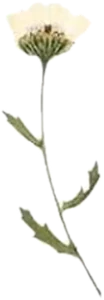
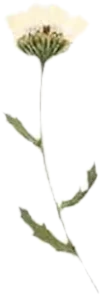
Fix Fiberglass autoplay fallback, pressed-flower transparency, Slip Stitch sticker
- PhoneMockup: set the muted property before playing, and show a tap-to-play
  button when autoplay is blocked (iPhone Low Power Mode, data saver) or the
  visitor prefers reduced motion, instead of a frozen first frame
- Botanicals: alpha now follows distance from the white backdrop, so gaps
  between leaflets are see-through and edges carry no white rim
- Slip Stitch sticker keeps the full cream S

Claude-Session: https://claude.ai/code/session_01Nkk7RTQs6f9adRdgWtfamd

diff --git a/src/components/OddsAndEnds.tsx b/src/components/OddsAndEnds.tsx
@@ -55,29 +55,29 @@ const pieces: Piece[] = [
 
   // Logo stickers, stuck on the kraft paper
   { src: "/odds/rapscallion.webp", w: 520, h: 195, alt: "Rapscallion Station ransom-note bar logo sticker", frame: "sticker", d: [55, 72.5, 15, -4, 20], m: [386, 12, 50, -4, 20] },
-  { src: "/odds/slipstitch.webp", w: 351, h: 364, alt: "Slip Stitch Heirlooms retro sunset logo sticker", frame: "sticker", d: [65, 87, 8.5, 8, 20], m: [384, 64, 26, 8, 20] },
+  { src: "/odds/slipstitch.webp", w: 506, h: 520, alt: "Slip Stitch Heirlooms retro sunset logo sticker", frame: "sticker", d: [65, 87, 8.5, 8, 20], m: [384, 64, 26, 8, 20] },
   { src: "/odds/logistics-logo.webp", w: 300, h: 221, alt: "Logistics company logo sticker", frame: "sticker", d: [70, 73.5, 8, 6, 20], m: [406, 14, 22, 6, 20] },
   { src: "/odds/sailor.webp", w: 151, h: 197, alt: "Bearded sailor icon logo sticker", frame: "sticker", d: [69, 83, 4.2, -6, 20], m: [404, 44, 12, -6, 20] },
 
   // Pressed botanicals, some tucked under the pieces and some laid on top
-  { src: "/odds/bot/sweetgum.webp", w: 300, h: 258, alt: "", frame: "botanical", d: [79, 7, 8, 20, 4], m: [190, 70, 24, 20, 4] },
-  { src: "/odds/bot/sweetgum-2.webp", w: 290, h: 247, alt: "", frame: "botanical", d: [30, 76, 7, -15, 3] },
-  { src: "/odds/bot/meadow-rue.webp", w: 209, h: 300, alt: "", frame: "botanical", d: [36, 68.5, 5, 12, 5], m: [300, 86, 13, 12, 25] },
-  { src: "/odds/bot/fern.webp", w: 165, h: 300, alt: "", frame: "botanical", d: [76, 50, 4.5, -8, 25], m: [52, 2, 12, -8, 25] },
-  { src: "/odds/bot/yarrow.webp", w: 190, h: 284, alt: "", frame: "botanical", d: [78, 30, 4.5, 10, 5] },
-  { src: "/odds/bot/skeleton-leaf.webp", w: 144, h: 220, alt: "", frame: "botanical", d: [16, 28.5, 4, -20, 5], m: [244, 42, 13, -20, 25] },
-  { src: "/odds/bot/rose-peach.webp", w: 239, h: 226, alt: "", frame: "botanical", d: [40, 0.5, 6.5, 0, 25], m: [116, 2, 18, 0, 25] },
-  { src: "/odds/bot/rose-gold.webp", w: 160, h: 170, alt: "", frame: "botanical", d: [84, 60, 5, 15, 25], m: [440, 8, 14, 15, 25] },
-  { src: "/odds/bot/dandelion.webp", w: 183, h: 187, alt: "", frame: "botanical", d: [44, 92, 5, 0, 25], m: [186, 4, 14, 0, 25] },
-  { src: "/odds/bot/dandelion-2.webp", w: 184, h: 185, alt: "", frame: "botanical", d: [28, 49, 4, 0, 25] },
-  { src: "/odds/bot/cosmos.webp", w: 185, h: 183, alt: "", frame: "botanical", d: [82, 24.5, 5, 10, 25], m: [372, 82, 13, 10, 25] },
-  { src: "/odds/bot/cosmos-2.webp", w: 205, h: 229, alt: "", frame: "botanical", d: [64, 52.5, 4.5, -10, 25] },
-  { src: "/odds/bot/marigold.webp", w: 167, h: 288, alt: "", frame: "botanical", d: [24, 47, 3, 8, 25], m: [22, 88, 9, 8, 25] },
-  { src: "/odds/bot/daisy-stem.webp", w: 104, h: 300, alt: "", frame: "botanical", d: [50, 96.5, 2.4, -6, 25] },
-  { src: "/odds/bot/pasque.webp", w: 167, h: 300, alt: "", frame: "botanical", d: [3, 0.3, 3.5, 8, 25] },
-  { src: "/odds/bot/rosebud.webp", w: 123, h: 207, alt: "", frame: "botanical", d: [86, 68, 3, 30, 25], m: [442, 90, 8, 30, 25] },
-  { src: "/odds/bot/tulip.webp", w: 107, h: 117, alt: "", frame: "botanical", d: [38, 21, 3, -12, 25] },
-  { src: "/odds/bot/pansy.webp", w: 84, h: 89, alt: "", frame: "botanical", d: [12, 29.5, 2.2, 0, 25], m: [124, 92, 6, 0, 25] },
+  { src: "/odds/bot/sweetgum.webp", w: 294, h: 240, alt: "", frame: "botanical", d: [79, 7, 8, 20, 4], m: [190, 70, 24, 20, 4] },
+  { src: "/odds/bot/sweetgum-2.webp", w: 289, h: 244, alt: "", frame: "botanical", d: [30, 76, 7, -15, 3] },
+  { src: "/odds/bot/meadow-rue.webp", w: 206, h: 295, alt: "", frame: "botanical", d: [36, 68.5, 5, 12, 5], m: [300, 86, 13, 12, 25] },
+  { src: "/odds/bot/fern.webp", w: 165, h: 296, alt: "", frame: "botanical", d: [76, 50, 4.5, -8, 25], m: [52, 2, 12, -8, 25] },
+  { src: "/odds/bot/yarrow.webp", w: 192, h: 285, alt: "", frame: "botanical", d: [78, 30, 4.5, 10, 5] },
+  { src: "/odds/bot/skeleton-leaf.webp", w: 144, h: 219, alt: "", frame: "botanical", d: [16, 28.5, 4, -20, 5], m: [244, 42, 13, -20, 25] },
+  { src: "/odds/bot/rose-peach.webp", w: 240, h: 229, alt: "", frame: "botanical", d: [40, 0.5, 6.5, 0, 25], m: [116, 2, 18, 0, 25] },
+  { src: "/odds/bot/rose-gold.webp", w: 162, h: 170, alt: "", frame: "botanical", d: [84, 60, 5, 15, 25], m: [440, 8, 14, 15, 25] },
+  { src: "/odds/bot/dandelion.webp", w: 182, h: 189, alt: "", frame: "botanical", d: [44, 92, 5, 0, 25], m: [186, 4, 14, 0, 25] },
+  { src: "/odds/bot/dandelion-2.webp", w: 186, h: 185, alt: "", frame: "botanical", d: [28, 49, 4, 0, 25] },
+  { src: "/odds/bot/cosmos.webp", w: 187, h: 184, alt: "", frame: "botanical", d: [82, 24.5, 5, 10, 25], m: [372, 82, 13, 10, 25] },
+  { src: "/odds/bot/cosmos-2.webp", w: 205, h: 230, alt: "", frame: "botanical", d: [64, 52.5, 4.5, -10, 25] },
+  { src: "/odds/bot/marigold.webp", w: 169, h: 290, alt: "", frame: "botanical", d: [24, 47, 3, 8, 25], m: [22, 88, 9, 8, 25] },
+  { src: "/odds/bot/daisy-stem.webp", w: 100, h: 295, alt: "", frame: "botanical", d: [50, 96.5, 2.4, -6, 25] },
+  { src: "/odds/bot/pasque.webp", w: 165, h: 298, alt: "", frame: "botanical", d: [3, 0.3, 3.5, 8, 25] },
+  { src: "/odds/bot/rosebud.webp", w: 121, h: 207, alt: "", frame: "botanical", d: [86, 68, 3, 30, 25], m: [442, 90, 8, 30, 25] },
+  { src: "/odds/bot/tulip.webp", w: 105, h: 113, alt: "", frame: "botanical", d: [38, 21, 3, -12, 25] },
+  { src: "/odds/bot/pansy.webp", w: 86, h: 87, alt: "", frame: "botanical", d: [12, 29.5, 2.2, 0, 25], m: [124, 92, 6, 0, 25] },
 ];
 
 // Ragged edges for torn paper, generated once so they match between renders.
@@ -107,9 +107,9 @@ export function OddsAndEnds() {
 
         {/* Decoupage: oversized botanicals soaked into the paper */}
         <div className="pointer-events-none absolute inset-0" aria-hidden>
-          <Image src="/odds/bot/fern.webp" alt="" width={165} height={300} className="decoupage absolute top-[8%] left-[1%] w-[14%]" />
-          <Image src="/odds/bot/sweetgum.webp" alt="" width={300} height={258} className="decoupage absolute right-[4%] bottom-[2%] w-[22%] rotate-12" />
-          <Image src="/odds/bot/meadow-rue.webp" alt="" width={209} height={300} className="decoupage absolute top-[30%] left-[42%] w-[16%] -rotate-12" />
+          <Image src="/odds/bot/fern.webp" alt="" width={165} height={296} className="decoupage absolute top-[8%] left-[1%] w-[14%]" />
+          <Image src="/odds/bot/sweetgum.webp" alt="" width={294} height={240} className="decoupage absolute right-[4%] bottom-[2%] w-[22%] rotate-12" />
+          <Image src="/odds/bot/meadow-rue.webp" alt="" width={206} height={295} className="decoupage absolute top-[30%] left-[42%] w-[16%] -rotate-12" />
         </div>
 
         {scraps.map((sc, i) => (

diff --git a/src/components/PhoneMockup.tsx b/src/components/PhoneMockup.tsx
@@ -1,9 +1,11 @@
 "use client";
 
-import { useEffect, useRef } from "react";
+import { useEffect, useRef, useState } from "react";
 
 // A drawn phone frame that loops a muted screen recording. It autoplays natively,
-// then pauses whenever it scrolls offscreen and resumes when it comes back.
+// then pauses whenever it scrolls offscreen and resumes when it comes back. When the
+// browser blocks autoplay (iPhone Low Power Mode, data saver) or the visitor prefers
+// reduced motion, a play button appears instead.
 export function PhoneMockup({
   mp4,
   webm,
@@ -16,24 +18,40 @@ export function PhoneMockup({
   label: string;
 }) {
   const videoRef = useRef<HTMLVideoElement>(null);
+  const [blocked, setBlocked] = useState(false);
+  // Once someone presses play, keep it playing on screen like the autoplay would.
+  const started = useRef(false);
 
   useEffect(() => {
     const video = videoRef.current;
     if (!video) return;
+    // iOS checks the property, not just the attribute, before allowing muted autoplay.
+    video.muted = true;
     // Respect reduced motion: show the first frame and let people press play themselves.
-    if (window.matchMedia("(prefers-reduced-motion: reduce)").matches) {
+    const reduceMotion = window.matchMedia("(prefers-reduced-motion: reduce)").matches;
+    if (reduceMotion) {
       video.pause();
       video.currentTime = 0;
-      video.controls = true;
-      return;
     }
     const io = new IntersectionObserver(([entry]) => {
-      if (entry.isIntersecting) video.play().catch(() => {});
-      else video.pause();
+      if (!entry.isIntersecting) return video.pause();
+      if (reduceMotion && !started.current) return setBlocked(true);
+      video.play().then(
+        () => setBlocked(false),
+        () => setBlocked(true),
+      );
     });
     io.observe(video);
     return () => io.disconnect();
   }, []);
+
+  function playNow() {
+    const video = videoRef.current;
+    if (!video) return;
+    started.current = true;
+    video.muted = true;
+    video.play().then(() => setBlocked(false), () => {});
+  }
 
   return (
     <div className="relative rounded-[2.6rem] bg-ink p-[3.5%] shadow-[0_30px_60px_-20px_rgba(46,34,25,0.55)]">
@@ -52,6 +70,20 @@ export function PhoneMockup({
           <source src={mp4} type='video/mp4; codecs="avc1.640028"' />
           <source src={webm} type='video/webm; codecs="vp9"' />
         </video>
+        {blocked && (
+          <button
+            type="button"
+            onClick={playNow}
+            aria-label={`Play: ${label}`}
+            className="absolute inset-0 grid place-items-center bg-ink/10 transition hover:bg-ink/0"
+          >
+            <span className="grid h-14 w-14 place-items-center rounded-full bg-paper/90 shadow-lg ring-1 ring-ink/10">
+              <svg viewBox="0 0 24 24" className="ml-1 h-6 w-6 fill-ink" aria-hidden>
+                <path d="M7 4.5v15l12-7.5z" />
+              </svg>
+            </span>
+          </button>
+        )}
         {/* Dynamic Island */}
         <span
           className="absolute top-[1.6%] left-1/2 h-[3.2%] w-[30%] -translate-x-1/2 rounded-full bg-ink"
